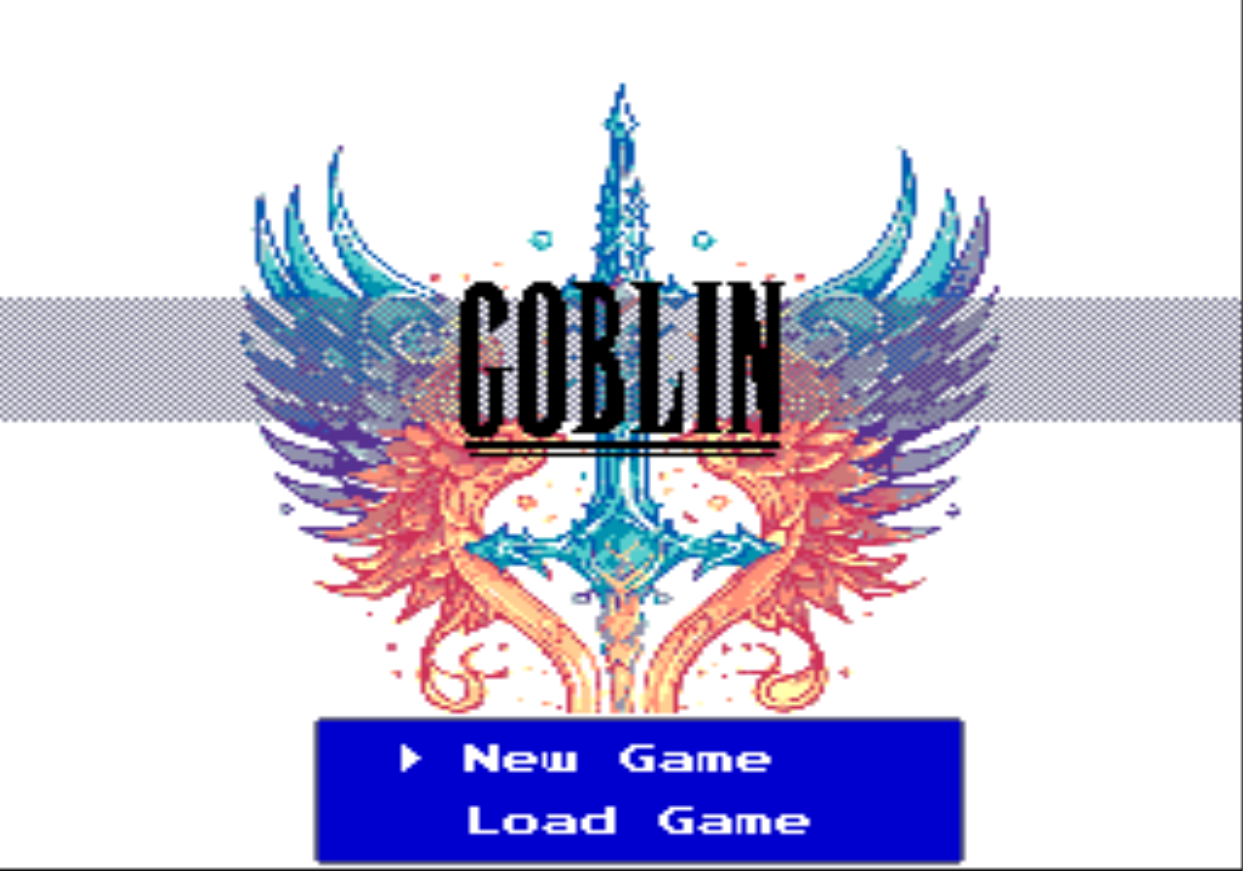
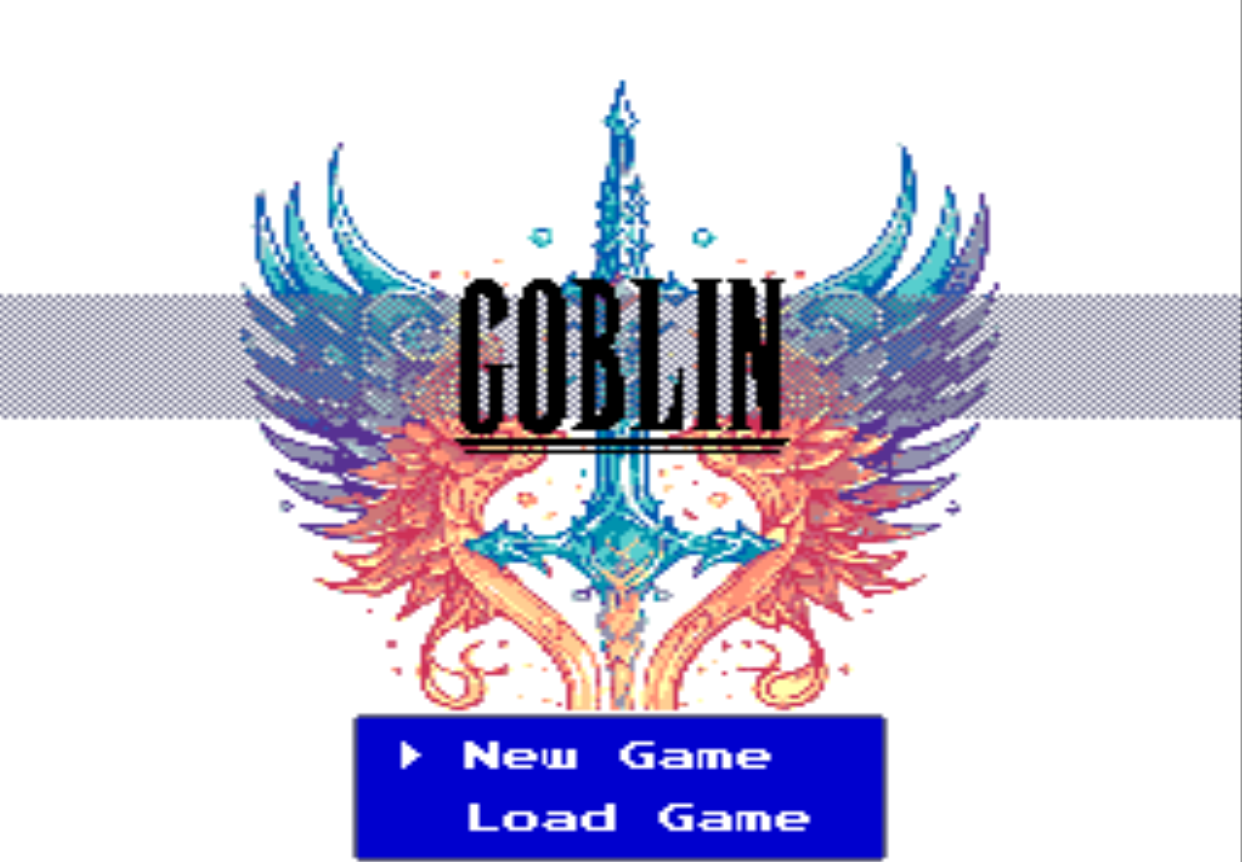
update screenshots and font

diff --git a/src/titlescreen.c b/src/titlescreen.c
@@ -55,7 +55,7 @@ void displayTitle(){
         //VDP_loadFontData(tileset_Font.tiles, 96, CPU);
 	    PAL_setPalette(PAL0, palette_Font.data, DMA);
         
-        drawBox( 8, 23, 17, 5);
+        drawBox( 9, 23, 14, 5);
         //VDP_drawTextBG( BG_A, "Bear Made Games", 9, 20);
         //VDP_drawTextBG( BG_A, "     2025     ", 9, 22);
         //VDP_drawTextBG( BG_A, "   ", 11, 24);
